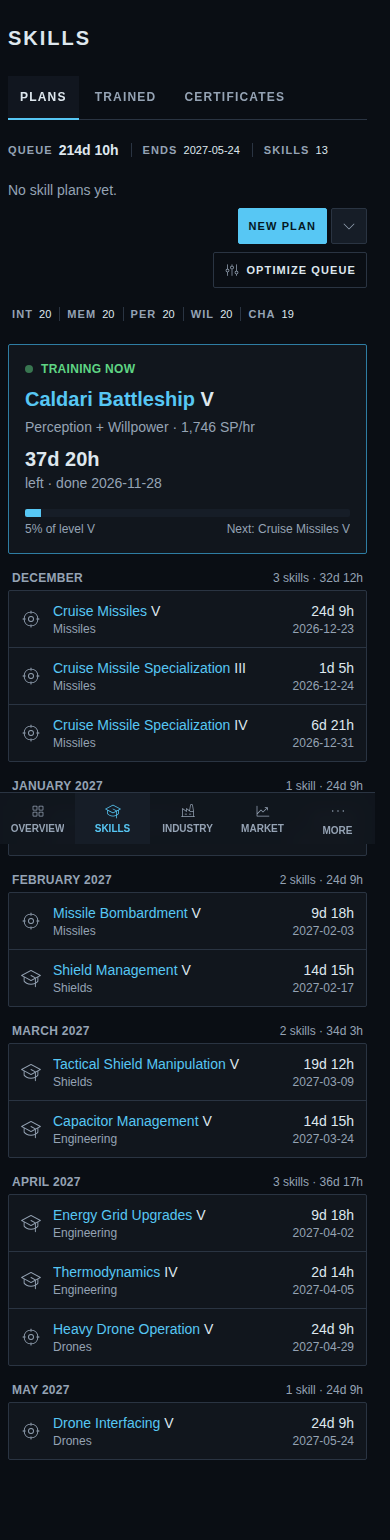
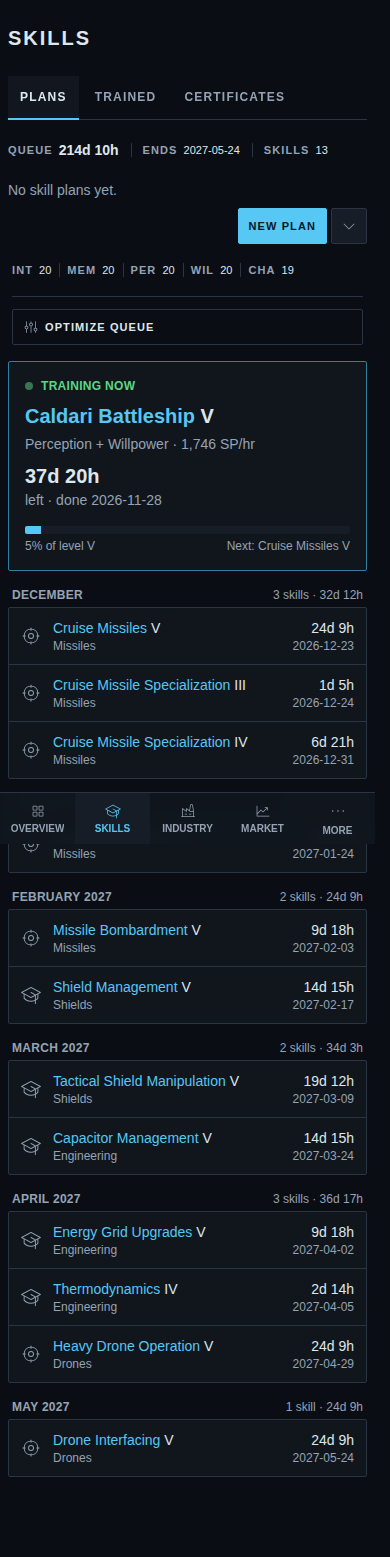
docs(mockups): Optimize queue moves to the Attributes card (#4701)
Full width under the remap budget, past a divider; the Skill Plan panel is
untouched. Flow and edge states unchanged.

diff --git a/src/mockups/queueRemapParts.tsx b/src/mockups/queueRemapParts.tsx
@@ -13,26 +13,30 @@ import { queueAdvice, savesTime } from './queueRemapAdvice';
 const DAY_MS = 86_400_000;
 
 /**
- * Puts the proposed button into the real Skill Plan panel (the mockup can't
- * edit the page): a line of its own right under the action row, ending under
- * New plan. Re-attaches when the panel re-renders (desktop and phone are
- * different branches of `SkillPlanCard`).
+ * Puts the proposed button into the real Attributes card (the mockup can't
+ * edit the page): after the "Remaps: …" line on desktop, after the attribute
+ * chips on a phone (which shows the chips bare). Re-attaches when the card
+ * re-renders as its data arrives.
  */
-function IntoPlanCardActions({ children }: { children: ReactNode }) {
+function IntoAttributesCard({ children }: { children: ReactNode }) {
   const [slot, setSlot] = useState<HTMLElement | null>(null);
   useEffect(() => {
     let made: HTMLElement | null = null;
+    const host = () => {
+      const remapLine = [...document.querySelectorAll('aside p')].find((p) =>
+        p.textContent?.startsWith('Remaps:')
+      );
+      return (
+        remapLine?.parentElement ?? document.querySelector('aside section[aria-label="Attributes"]')
+      );
+    };
     const attach = () => {
       if (made?.isConnected) return;
-      const newPlan = [...document.querySelectorAll('button')].find(
-        (b) => b.textContent?.trim().toLowerCase() === 'new plan'
-      );
-      const row = newPlan?.parentElement?.parentElement;
-      if (!row?.parentElement) return;
+      const target = host();
+      if (!target) return;
       made?.remove();
       made = document.createElement('div');
-      made.className = 'mt-2 flex justify-end';
-      row.parentElement.insertBefore(made, row.nextSibling);
+      target.appendChild(made);
       setSlot(made);
     };
     attach();
@@ -47,31 +51,36 @@ function IntoPlanCardActions({ children }: { children: ReactNode }) {
 }
 
 /**
- * Proposed: Optimize queue, under New plan. An existing `Button` (the
- * Optimize button's icon); one press makes the plan, so no "…". With an empty
- * queue it stays focusable (`aria-disabled`) and says why in its tooltip.
+ * Proposed: Optimize queue, at the foot of the Attributes card under the remap
+ * budget it spends, past a divider, at the card's full width. An existing
+ * `Button` with the Optimize button's icon; one press makes the plan, so no
+ * "…". With an empty queue it stays focusable (`aria-disabled`) and says why
+ * in its tooltip.
  */
 export function OptimizeQueueButton({ emptyQueue = false }: { emptyQueue?: boolean }) {
   const button = (
     <Button
       size="sm"
+      align="start"
+      className={emptyQueue ? 'w-full cursor-not-allowed opacity-40' : 'w-full'}
       aria-disabled={emptyQueue || undefined}
-      className={emptyQueue ? 'cursor-not-allowed opacity-40' : undefined}
     >
       <span aria-hidden="true" className="shrink-0 text-text-dim">
         <Icon.OptimizeRemaps size={Icon.ICON_SIZE.sm} />
       </span>
-      Optimize queue
+      <span className="flex-1">Optimize queue</span>
     </Button>
   );
   return (
-    <IntoPlanCardActions>
-      {emptyQueue ? (
-        <Tooltip content="Your skill queue is empty: nothing to optimize.">{button}</Tooltip>
-      ) : (
-        button
-      )}
-    </IntoPlanCardActions>
+    <IntoAttributesCard>
+      <div className="mt-3 border-t border-line pt-3">
+        {emptyQueue ? (
+          <Tooltip content="Your skill queue is empty: nothing to optimize.">{button}</Tooltip>
+        ) : (
+          button
+        )}
+      </div>
+    </IntoAttributesCard>
   );
 }
 

diff --git a/src/mockups/QueueRemap.stories.tsx b/src/mockups/QueueRemap.stories.tsx
@@ -159,8 +159,8 @@ const openOptimize = async ({ canvasElement }: { canvasElement: HTMLElement }) =
 
 /**
  * Issue #4701: remap advice for the current skill queue. Chosen flow (Shawn,
- * 2026-10-21): one press of **Optimize queue**, under New plan in the Skill
- * Plan panel, makes a plan from the queue, runs the optimizer (`placeRemaps`,
+ * 2026-10-21): one press of **Optimize queue**, at the foot of the Attributes
+ * card, makes a plan from the queue, runs the optimizer (`placeRemaps`,
  * leaving out the level training now as the editor does), places its remaps
  * as Remap Markers and opens that plan, with an Undo toast naming what it did.
  *
@@ -168,8 +168,8 @@ const openOptimize = async ({ canvasElement }: { canvasElement: HTMLElement }) =
  * missile pilot (`queueRemapFixtures.ts`); every figure is the planner's own.
  *
  * New components in this mockup: none. The button is an existing `Button`
- * on its own line under New plan, and the landing
- * note is the existing `Toast`.
+ * at the Attributes card's full width under the remap budget, past a divider;
+ * the landing note is the existing `Toast`.
  */
 const meta = {
   title: 'mockups/QueueRemap',
@@ -194,13 +194,13 @@ export const TodayPlanOptimize: Story = {
   play: openOptimize,
 };
 
-/** @summary Optimize queue under New plan, no plans yet. */
+/** @summary Optimize queue at the foot of the Attributes card, no plans yet. */
 export const Button: Story = { render: () => withButton() };
 
-/** @summary Optimize queue under New plan on a phone. */
+/** @summary Optimize queue under the attribute chips on a phone. */
 export const ButtonPhone: Story = { render: () => withButton(), globals: phone };
 
-/** @summary Optimize queue with plans already kept: All plans and New plan unchanged, Optimize queue under New plan. */
+/** @summary With plans already kept: the Skill Plan panel is untouched, Optimize queue stays in Attributes. */
 export const ButtonWithPlans: Story = {
   parameters: { shell: queuePage('ready', seedExistingPlans) },
   render: () => withButton(),

diff --git a/docs/design/mockups/queue-remap-advice/README.md b/docs/design/mockups/queue-remap-advice/README.md
@@ -2,7 +2,7 @@
 
 Source: `src/mockups/QueueRemap.stories.tsx` (`mockups-queueremap--*`). Issue #4701. Sample data; the ticket text wins over the picture.
 
-**Chosen flow (Shawn, 2026-10-21):** pressing **Optimize queue** in the Skill Plan panel on `/skills/plans` does the following in one press:
+**Chosen flow (Shawn, 2026-10-21):** pressing **Optimize queue** at the foot of the Attributes card on `/skills/plans` does the following in one press:
 
 1. Makes a new plan from the in-game skill queue.
 2. Runs the optimizer (`placeRemaps`). It leaves out the level training now, the way the Plan editor's "Trains first in game" does.
@@ -18,7 +18,7 @@ New components: none. The button is an existing `Button` with the Optimize butto
 ## Decisions
 
 - **Label: "Optimize queue", no "…".** One press does the whole job and asks for nothing more, so §6c's "…" (more input or a confirmation follows) doesn't apply. It names its object (the queue), so it reads apart from the Plan editor's Optimize menu, which acts on a plan.
-- **Placement: its own line, right-aligned under New plan.** It fits beside New plan only while there are no plans. Once All plans… takes the left of that row, the row has no room on desktop (20rem column) or at 390, and wrapping pushed New plan onto the second line. One fixed spot keeps the panel's existing row untouched in every state.
+- **Placement: the Attributes card** (Shawn's call, after trying it under New plan). It sits under the "Remaps: …" line, the budget it spends, past a divider (`border-t border-line`, the panels' own rule), at the card's full width. On a phone, where the card shows its chips bare, it goes under the chips the same way. The Skill Plan panel is untouched.
 - **Landing: an Undo toast** (DESIGN "a write the app makes on the pilot's behalf announces itself with the same Undo `Toast`, naming what it did"). The editor raises it after the route change, because an action toast closes on route change. For example: `Made "Skill queue · 2026-10-21": remap before Shield Management V saves 15d 12h.` Undo deletes the plan and returns to Plans. The savings figure (plan header and Plan tools) and the marker row are visible on landing at 1440. At 390 the savings show on landing and the marker row is a scroll down (`landing-390-full`).
 - **Plan name: "Skill queue · <date>".** A second press on the same day adds " (2)" and so on, rather than overwriting.
 - **Empty queue:** the button stays visible and focusable, `aria-disabled`, with the tooltip "Your skill queue is empty: nothing to optimize." (DESIGN: a disabled control with a reason uses `aria-disabled` plus a tooltip). The queue panel's own empty state is the visible text.
@@ -37,8 +37,8 @@ New components: none. The button is an existing `Button` with the Optimize butto
 
 | Story | 1440 | 390 |
 |---|---|---|
-| `button`: no plans yet | ![](button-1440.png) | ![](button-390.png) |
-| `button-with-plans`: current plan and All plans… | ![](button-with-plans-1440.png) | ![](button-with-plans-390.png) |
+| `button`: in the Attributes card, no plans yet | ![](button-1440.png) | ![](button-390.png) |
+| `button-with-plans`: plans kept; the Skill Plan panel is unchanged | ![](button-with-plans-1440.png) | ![](button-with-plans-390.png) |
 | `landing`: the new plan, marker before Shield Management V, Remap savings 15d 12h, Undo toast | ![](landing-1440.png) | ![](landing-390.png) ![](landing-390-full.png) |
 | `landing-cooldown`: the marker waits for the yearly remap | ![](landing-cooldown-1440.png) | |
 | `landing-bonus`: two markers | ![](landing-bonus-1440.png) | |

diff --git a/docs/design/mockups/README.md b/docs/design/mockups/README.md
@@ -25,6 +25,6 @@ PNG exports of the chosen mockups for ready tickets. Delete a folder (and its ro
 | [collector-books](collector-books/README.md) | Spec #4504 (UI: #4512, #4513, #4514, #4520) | List A (sortable Moon owners table) for the accounting corporation, Page B (plain statement first) for the moon owner |
 | [corp-projects](corp-projects/README.md) | Issue #4530 | Industry › Projects as the fifth tab; summary strip, chips, read-only table; grant and empty states |
 | [fittings-restock](fittings-restock/README.md) | Issue #4550 | Appraisal's card title becomes a source select (Paste / From my Fittings); Fittings with hull-count steppers; Send to Build Group… in the actions menu; Appraise and Clear inline on phone |
-| [queue-remap-advice](queue-remap-advice/README.md) | Issue #4701 | Optimize queue under New plan: one press makes a plan from the queue with the optimizer's Remap Markers and opens it, Undo toast; empty queue aria-disabled, already optimal makes no plan |
+| [queue-remap-advice](queue-remap-advice/README.md) | Issue #4701 | Optimize queue at the foot of the Attributes card (full width, under the remap budget): one press makes a plan from the queue with the optimizer's Remap Markers and opens it, Undo toast; empty queue aria-disabled, already optimal makes no plan |
 
 First draft mockup; sample data. The ticket's Agent Brief text wins over the picture where they differ.
